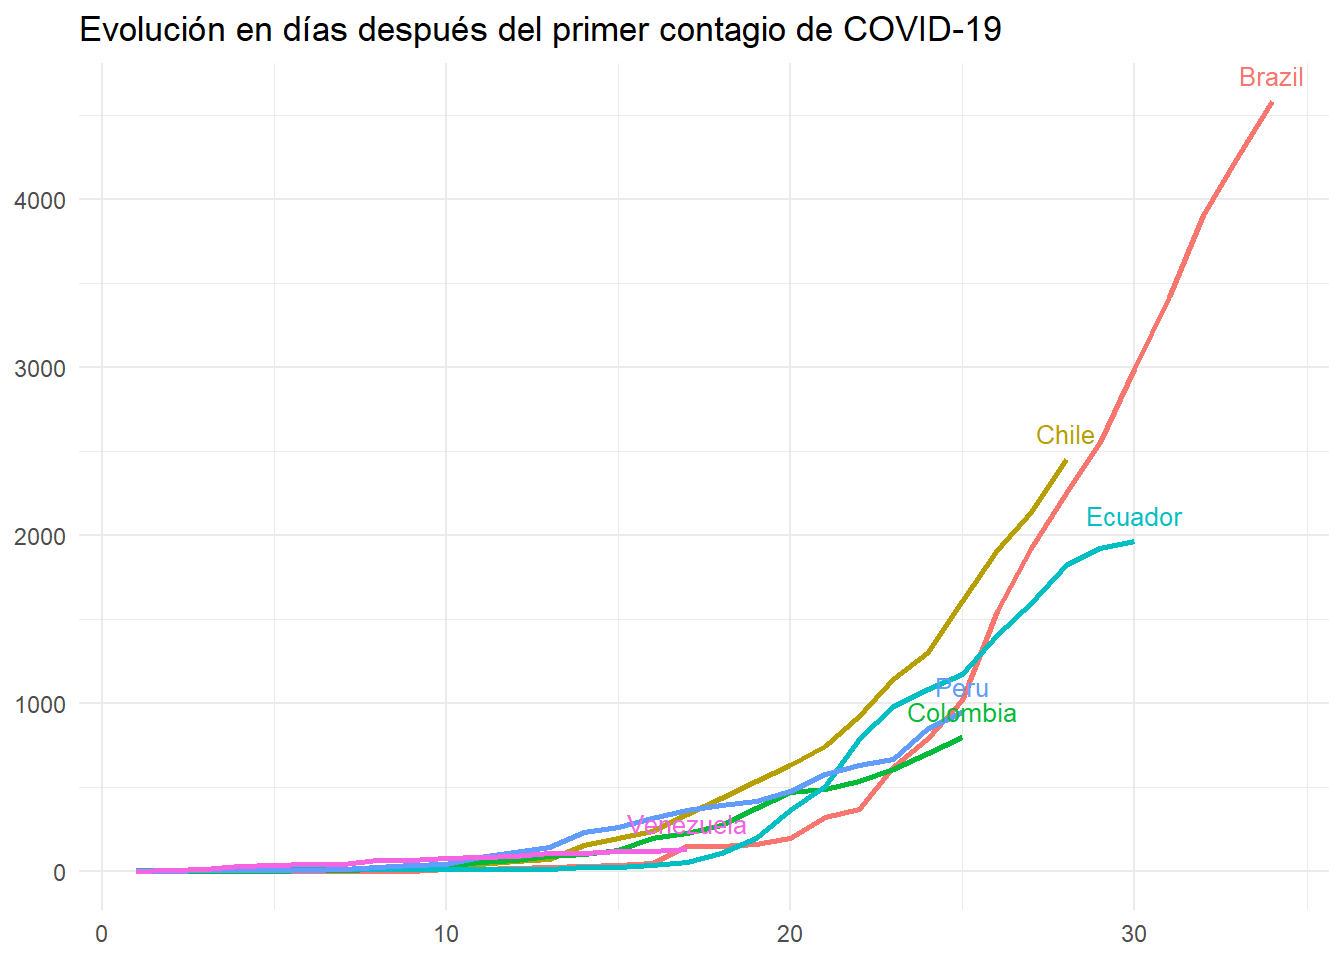
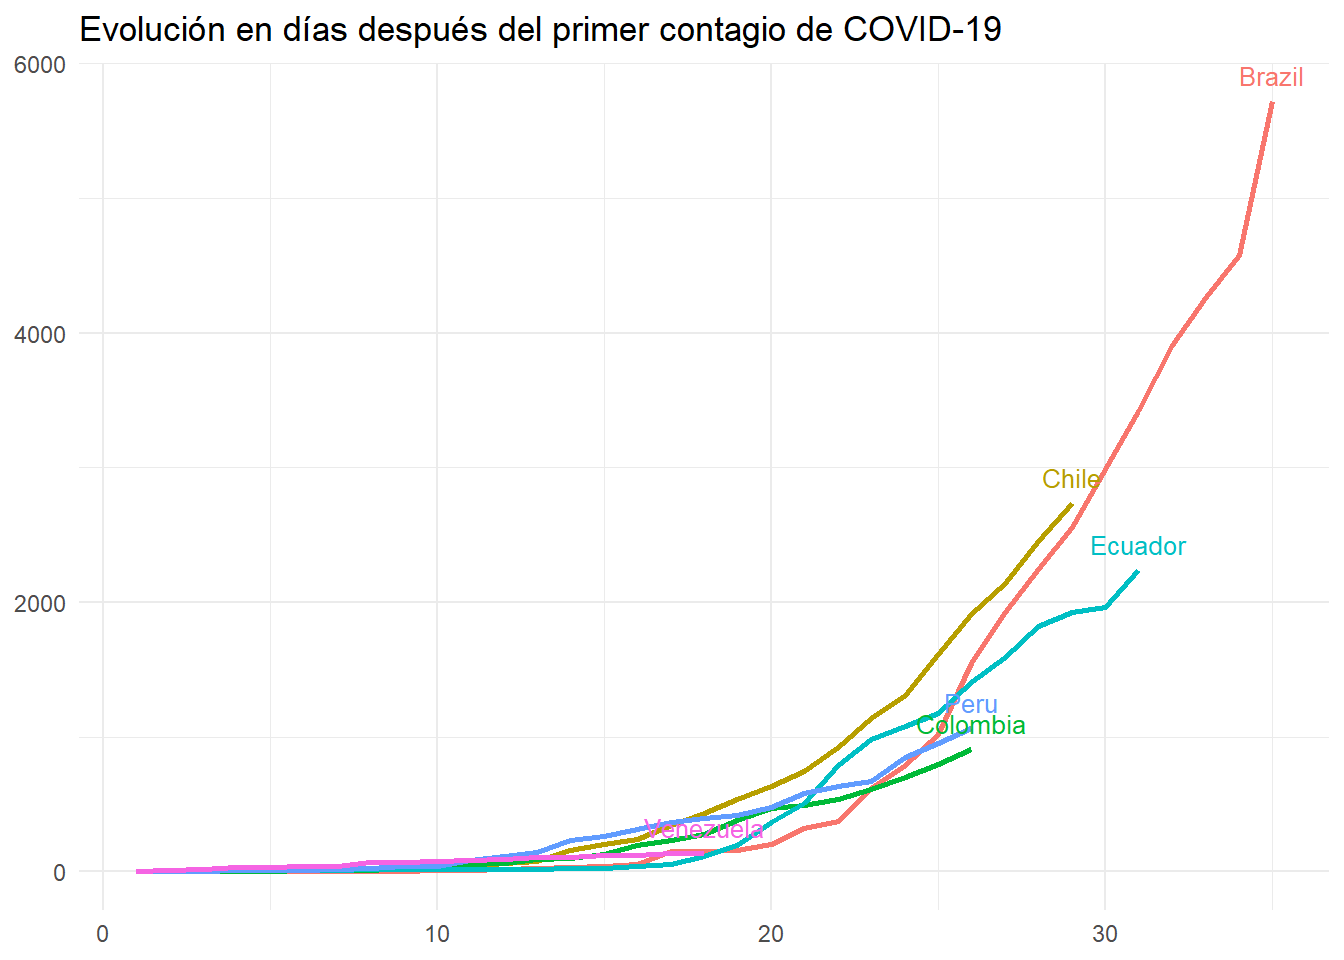
31032020

diff --git a/index.html b/index.html
@@ -12,7 +12,7 @@
 
 <meta name="author" content="Jorge David Morales" />
 
-<meta name="date" content="2020-03-30" />
+<meta name="date" content="2020-03-31" />
 
 <title>JD Website</title>
 
@@ -295,7 +295,7 @@ $(document).ready(function () {
 
 <h1 class="title toc-ignore">JD Website</h1>
 <h4 class="author">Jorge David Morales</h4>
-<h4 class="date">2020-03-30</h4>
+<h4 class="date">2020-03-31</h4>
 
 </div>
 
@@ -304,7 +304,7 @@ $(document).ready(function () {
 <h1>COVID-19</h1>
 <p>Información tomada del GitHub de la Universidad Johns Hopkins, US:<br />
 <a href="https://github.com/CSSEGISandData/COVID-19/tree/master/csse_covid_19_data" class="uri">https://github.com/CSSEGISandData/COVID-19/tree/master/csse_covid_19_data</a></p>
-<pre><code>## [1] &quot;Fecha de último reporte: 2020-03-30&quot;</code></pre>
+<pre><code>## [1] &quot;Fecha de último reporte: 2020-03-31&quot;</code></pre>
 <table class="table table-striped table-hover table-condensed" style="margin-left: auto; margin-right: auto;">
 <thead>
 <tr>
@@ -340,152 +340,152 @@ Death.Rate
 <tbody>
 <tr>
 <td style="text-align:center;">
-2020-03-30
+2020-03-31
 </td>
 <td style="text-align:right;">
 Brazil
 </td>
 <td style="text-align:center;">
-4579
+5717
 </td>
 <td style="text-align:center;">
-120
+127
 </td>
 <td style="text-align:center;">
-159
+201
 </td>
 <td style="text-align:center;">
-323
+1138
 </td>
 <td style="text-align:center;">
-4300
+5389
 </td>
 <td style="text-align:right;">
-2.62%
+2.22%
 </td>
 <td style="text-align:center;">
-3.47%
+3.52%
 </td>
 </tr>
 <tr>
 <td style="text-align:center;">
-2020-03-30
+2020-03-31
 </td>
 <td style="text-align:right;">
 Chile
 </td>
 <td style="text-align:center;">
-2449
+2738
 </td>
 <td style="text-align:center;">
 156
 </td>
 <td style="text-align:center;">
-8
+12
 </td>
 <td style="text-align:center;">
-310
+289
 </td>
 <td style="text-align:center;">
-2285
+2570
 </td>
 <td style="text-align:right;">
-6.37%
+5.70%
 </td>
 <td style="text-align:center;">
-0.330%
+0.440%
 </td>
 </tr>
 <tr>
 <td style="text-align:center;">
-2020-03-30
+2020-03-31
 </td>
 <td style="text-align:right;">
 Ecuador
 </td>
 <td style="text-align:center;">
-1962
+2240
 </td>
 <td style="text-align:center;">
-3
+54
 </td>
 <td style="text-align:center;">
-60
+75
 </td>
 <td style="text-align:center;">
-38
+278
 </td>
 <td style="text-align:center;">
-1899
+2111
 </td>
 <td style="text-align:right;">
-0.150%
+2.41%
 </td>
 <td style="text-align:center;">
-3.06%
+3.35%
 </td>
 </tr>
 <tr>
 <td style="text-align:center;">
-2020-03-30
+2020-03-31
 </td>
 <td style="text-align:right;">
 Peru
 </td>
 <td style="text-align:center;">
-950
+1065
 </td>
 <td style="text-align:center;">
-53
+394
 </td>
 <td style="text-align:center;">
-24
+30
 </td>
 <td style="text-align:center;">
-98
+115
 </td>
 <td style="text-align:center;">
-873
+641
 </td>
 <td style="text-align:right;">
-5.58%
+37.0%
 </td>
 <td style="text-align:center;">
-2.53%
+2.82%
 </td>
 </tr>
 <tr>
 <td style="text-align:center;">
-2020-03-30
+2020-03-31
 </td>
 <td style="text-align:right;">
 Colombia
 </td>
 <td style="text-align:center;">
-798
+906
 </td>
 <td style="text-align:center;">
-15
+31
 </td>
 <td style="text-align:center;">
-12
+16
 </td>
 <td style="text-align:center;">
-96
+108
 </td>
 <td style="text-align:center;">
-771
+859
 </td>
 <td style="text-align:right;">
-1.88%
+3.42%
 </td>
 <td style="text-align:center;">
-1.50%
+1.77%
 </td>
 </tr>
 <tr>
 <td style="text-align:center;">
-2020-03-30
+2020-03-31
 </td>
 <td style="text-align:right;">
 Venezuela
@@ -500,7 +500,7 @@ Venezuela
 3
 </td>
 <td style="text-align:center;">
-16
+0
 </td>
 <td style="text-align:center;">
 93
